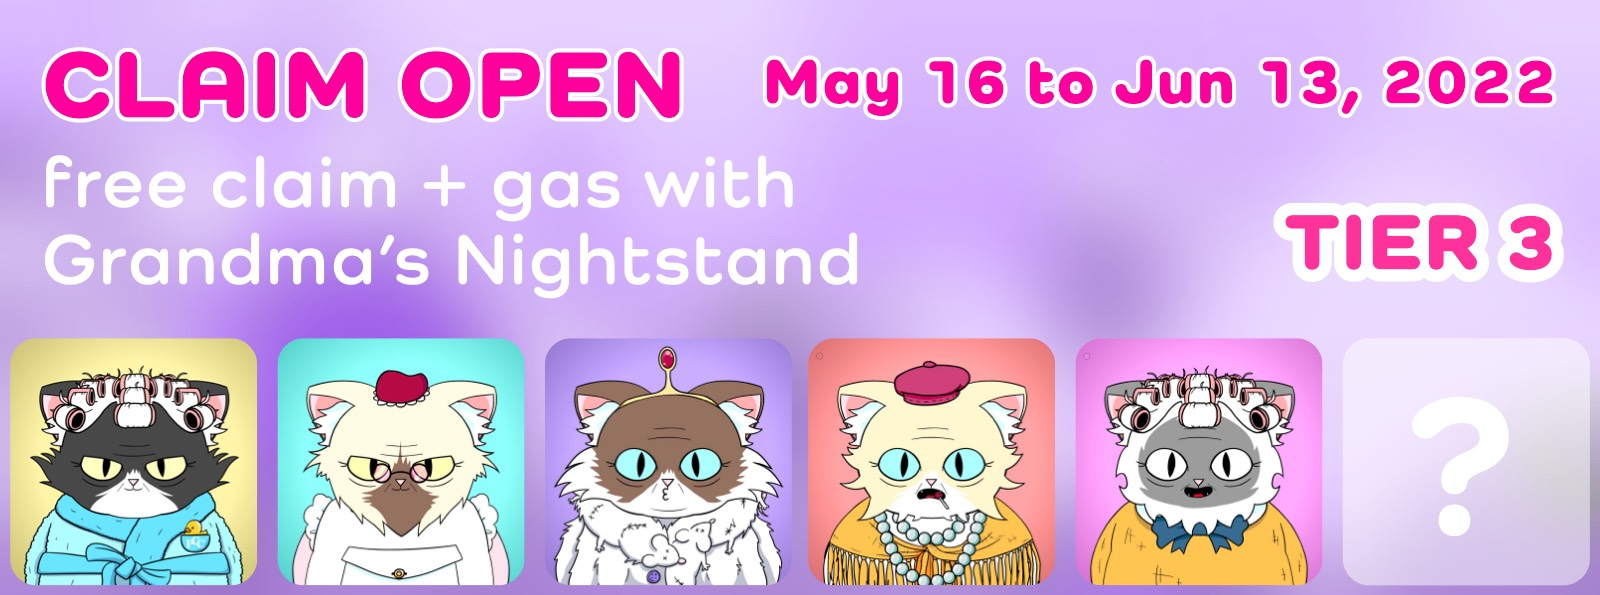
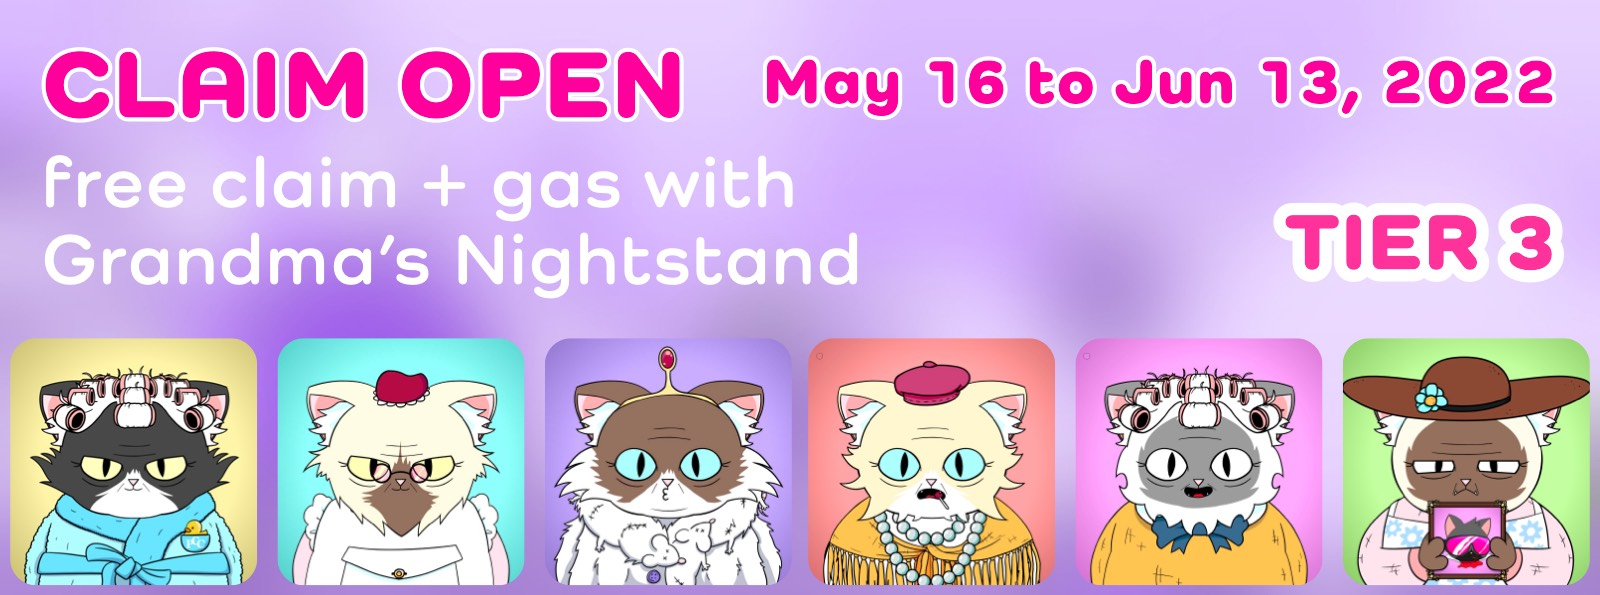
wiki: update grandmas

Changed region(s): [[0.8125, 0.5445, 1.0, 0.9983]]

diff --git a/wiki/collections/grandmas/index.md b/wiki/collections/grandmas/index.md
@@ -2,7 +2,7 @@
 sidebar_position: 30
 title: 👵🏻 Purrnelope's Grandmas
 image: /img/cover/pcc-grandmas.jpg
-description: Purrnelope's Grandmas is the 3rd collection in PCC Universe with 10,000 randomly generated NFTs that exist on the Ethereum Blockchain. And Grandmas are the 2nd companion to the Cats. Grandmas are Tier 3 NFTs.
+description: Purrnelope's Grandmas are the 2nd companion to the cats in PCC Universe with 10,000 randomly generated NFTs that exist on the Ethereum Blockchain. Grandmas are Tier 3 NFTs.
 ---
 
 👵🏻
@@ -18,15 +18,13 @@ Purrnelope's Grandmas are the 2nd companion to the [Cats](../cats/index.md) in P
 
 ### Mint / Claim
 
+Grandmas are claimed with [Grandma's Nightstand](../kittyvault-purrks/8-grandma-s-nightstand.md), 1 Nightstand for 1 Grandma. **Public Grandmas Claim window: May 16 to Jun 13, 2022. After that, unredeemed Nightstands will be pulled back.**
+
+**Claim on [purrnelopescountryclub.com/claim/grandma](https://www.purrnelopescountryclub.com/claim/grandma)**
+
 ![](./assets/claim-grandmas.jpg)
 
-Grandmas are claimed with [Grandma's Nightstand](../kittyvault-purrks/8-grandma-s-nightstand.md), 1 Nightstand for 1 Grandma. **Public Grandmas Claim will open on May 16, 2022, and will be closed on Jun 13, 2022. Unredeemed Nightstands will be pulled back.**
-
-Claim Page: [purrnelopescountryclub.com/claim/grandma](https://www.purrnelopescountryclub.com/claim/grandma)
-
 Grandmas `#1 - #20` are not revealed. They are reserved for The Team for mysterious plan? Maybe.
-
-<!-- <iframe src="https://www.youtube.com/embed/Dc2Hb1kT6hk" title="YouTube video player" frameborder="0" allow="accelerometer; autoplay; clipboard-write; encrypted-media; gyroscope; picture-in-picture" allowFullScreen></iframe> -->
 
 ### Clubhouse Access
 
@@ -48,7 +46,7 @@ Once the [KittyVault](../../kittyvault/index.md) is fractionalized, Grandmas can
 
 ### Cats & Grandmas
 
-If you have the Grandma and the [Cat](../cats/index.md) of the same ID in your wallet, the image of the Grandma will change, the Grandma will hold the Cat!
+**If you unite the Grandma and the [Cat](../cats/index.md) with the same ID by having them in the same wallet**, the image of the Grandma will change, the Grandma will hold a photo frame the Cat! And if they got seperated by not in the same wallet, the image of the Grandma will change back to not holding the photo frame.
 
 ![](./assets/cats-and-grandmas.jpg)
 

diff --git a/wiki/collections/kittyvault-purrks/8-grandma-s-nightstand.md b/wiki/collections/kittyvault-purrks/8-grandma-s-nightstand.md
@@ -23,15 +23,13 @@ Grandma's Nightstands are mint passes to claim Purrnelope's Grandmas, the 2st co
 
 ### Purrnelope's Grandmas
 
-![](../grandmas/assets/claim-grandmas.jpg)
-
 Each Grandma's Nightstand NFT can redeem for a [Purrnelope's Grandma](../grandmas/index.md).
 
-**Grandmas redeem will open on May 16, 2022. And redeem will be closed on Jun 13, 2022. Unredeemed Nightstand NFTs will be pulled back to Purrnelope.**
+**Grandmas redeem window: May 16 to Jun 13, 2022. After that, unredeemed Nightstands will be pulled back.**
 
-Claim Page: [purrnelopescountryclub.com/claim/grandma](https://www.purrnelopescountryclub.com/claim/grandma)
+**Redeem on [purrnelopescountryclub.com/claim/grandma](https://www.purrnelopescountryclub.com/claim/grandma)**
 
-<!-- Claim Page: [purrnelopescountryclub.com/claim/grandma](https://www.purrnelopescountryclub.com/claim/grandma) -->
+![](../grandmas/assets/claim-grandmas.jpg)
 
 ### KittyVault Fractions
 

diff --git a/wiki/collections/cats/index.md b/wiki/collections/cats/index.md
@@ -50,7 +50,7 @@ As shown in the picture above, the arms holding the [Kittens](../kittens/index.m
 
 ### Cats & Grandmas
 
-If you have the [Grandma](../grandmas/index.md) and the Cat of the same ID in your wallet, the image of the Grandma will change, the Grandma will hold the Cat!
+**If you unite the [Grandma](../grandmas/index.md) and the Cat with the same ID by having them in the same wallet**, the image of the Grandma will change, the Grandma will hold a photo frame the Cat! And if they got seperated by not in the same wallet, the image of the Grandma will change back to not holding the photo frame.
 
 ![](../grandmas/assets/cats-and-grandmas.jpg)
 
